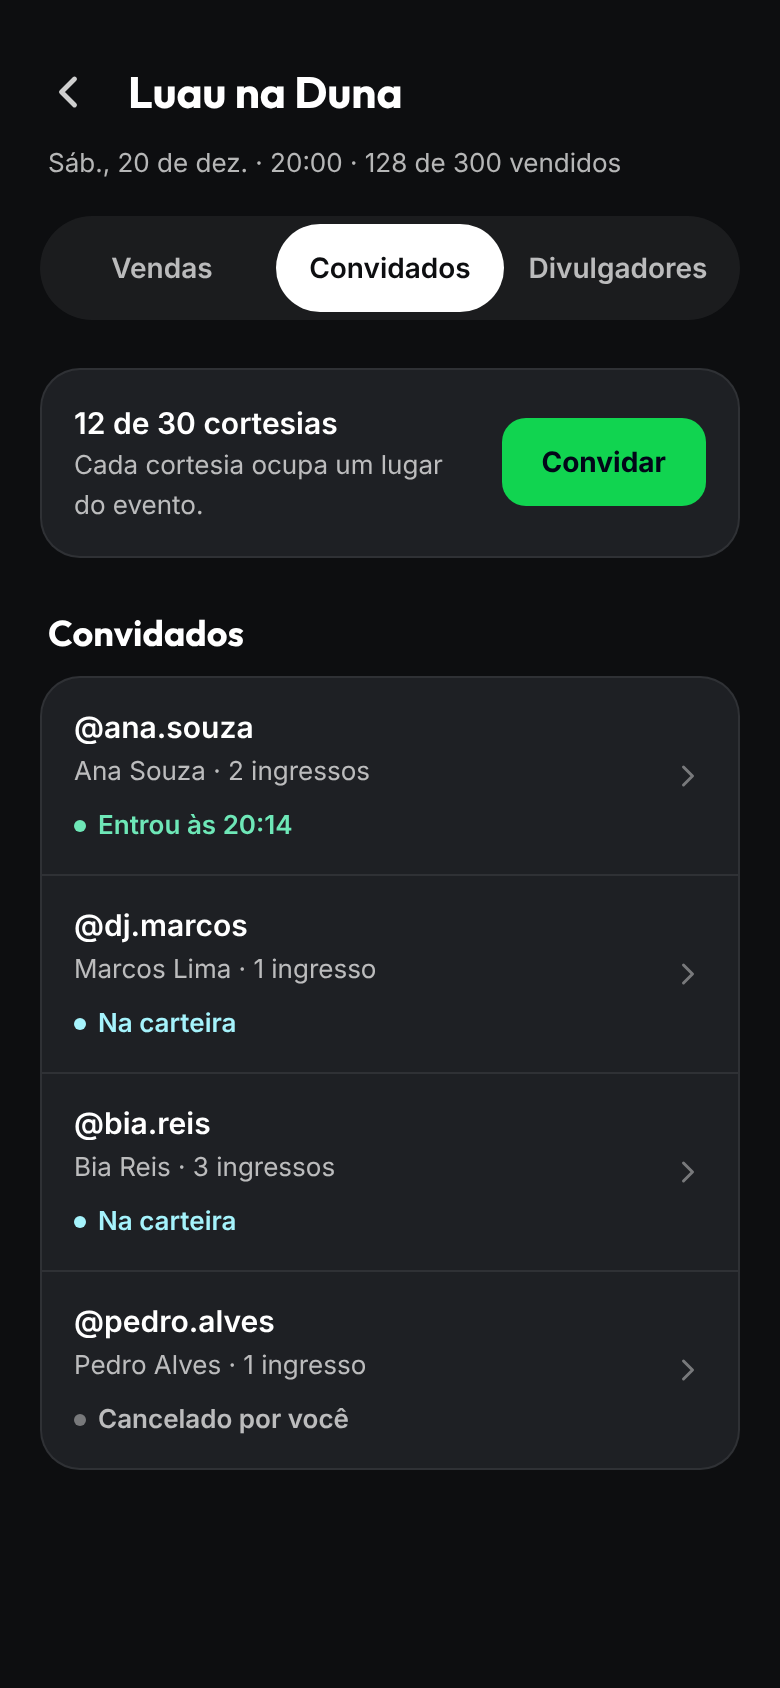
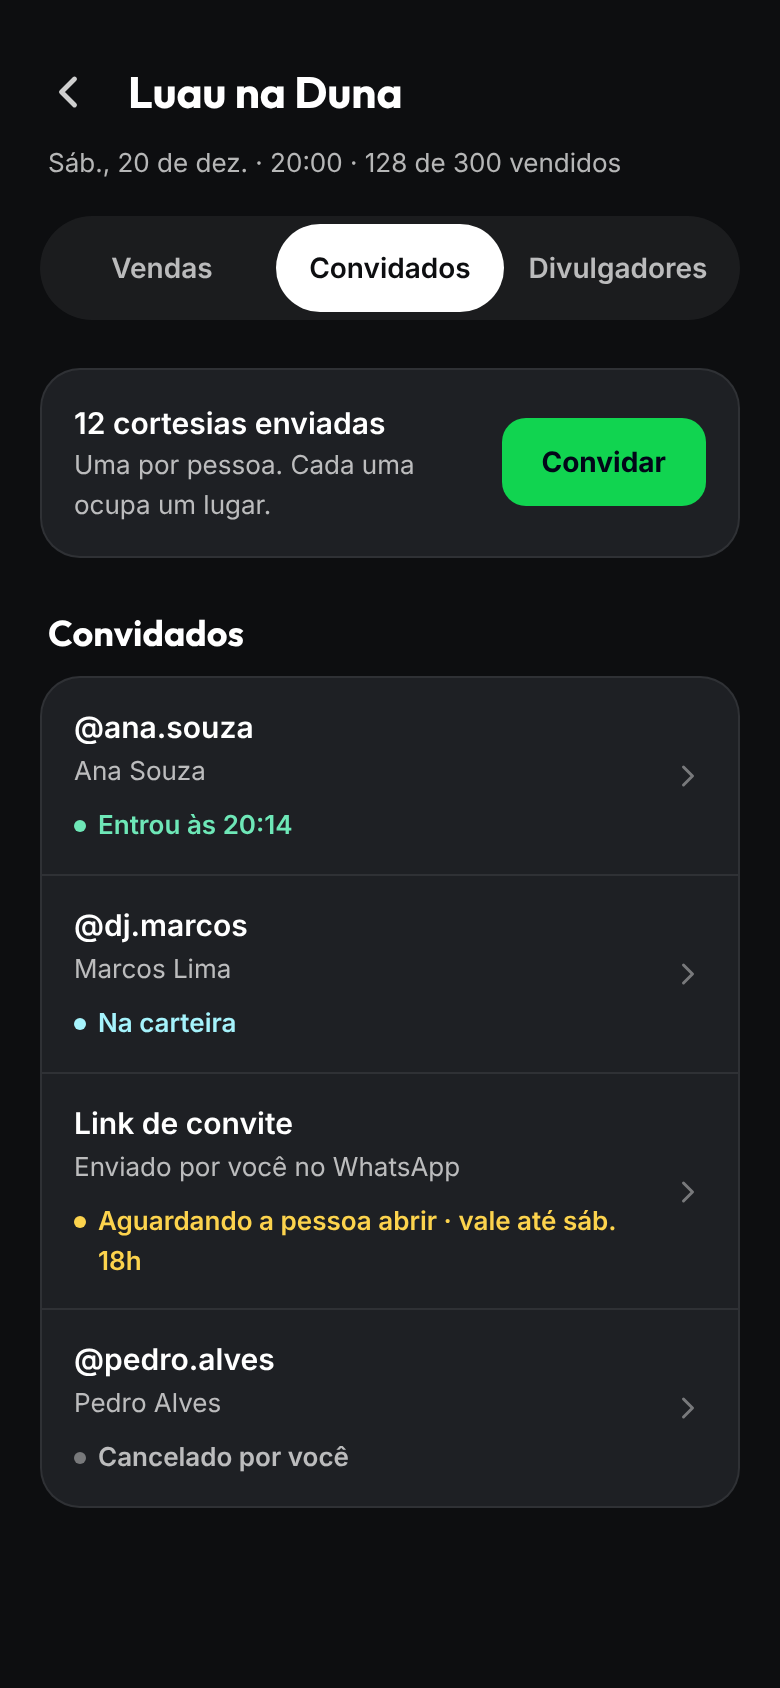
docs: proposta do painel do parceiro com as respostas de 2026-11-04 (atalhos no topo, cortesia 1 por pessoa, proteções, convite por link, página do evento x edição)
Claude-Session: https://claude.ai/code/session_01B4DS9rUAeoBCKcvRgBPDfP

diff --git a/docs/arquitetura/propostas/painel-parceiro-convidados-divulgadores.md b/docs/arquitetura/propostas/painel-parceiro-convidados-divulgadores.md
@@ -1,7 +1,7 @@
 # Proposta — Painel do parceiro, lista de convidados e divulgadores (2026-11-03)
 
-Status: **em aberto** (aguarda as decisões da seção 6; não implementar antes).
-Desenhos: `docs/arquitetura/propostas/painel-parceiro/` (p1 a p7, dois temas, verde da D26).
+Status: **em aberto** (decisões de 2026-11-04 na seção 6; aguarda aprovação dos desenhos e das seções 7 a 9).
+Desenhos: `docs/arquitetura/propostas/painel-parceiro/` (p1 a p9, dois temas, verde da D26).
 
 ## 1. Referências
 
@@ -55,22 +55,51 @@ Cada evento abre uma página própria com abas **Vendas · Convidados · Divulga
 - O divulgador não ganha comprando pelo próprio link.
 - O parceiro vê vendas, valor e quanto deve a cada divulgador; o divulgador vê, em **Menu › Divulgação**, os eventos, o link para compartilhar, as vendas e quanto tem a receber.
 
-## 6. Decisões (preciso da sua escolha)
+## 6. Respostas do responsável do produto (2026-11-04) e o que mudou
 
-1. **Painel:** barra inferior com Início, Agenda, Anúncios, Ganhos e Mais (proposta) ou manter abas no topo com uma tela Início?
-2. **Quem paga o divulgador:**
-   - **A (recomendado agora):** o parceiro paga direto ao divulgador (Pix); o Use Guide calcula e mostra o valor, como o Shotgun. Sem dinheiro novo passando pela plataforma, sem cadastro fiscal do divulgador.
-   - **B:** o Use Guide desconta a comissão do repasse do parceiro e paga o divulgador pelo Stripe (exige conta Stripe do divulgador com CPF, verificação e trato fiscal; mexe na D12 "CPF não vende" e no §15). Pode vir numa fase 2.
-3. **Limite de cortesias:** sugestão de até 10% da capacidade (o parceiro escolhe dentro do limite) ou livre?
-4. **Cortesia intransferível:** sim (proposta) ou pode transferir como ingresso pago?
-5. **Convite para quem não tem conta:** link de 7 dias (proposta) ou só por @?
-6. **Divulgador precisa aceitar** o convite (proposta) ou o link já sai ativo?
-7. **"Cachê fixo pelo evento"** (valor combinado, independe de vendas) entra também ou só comissão e valor por ingresso?
-8. **Oferta aberta** (qualquer comprador vira divulgador com uma comissão menor, como o Kickback público): agora, depois ou nunca?
+1. **Painel:** sem barra inferior. Atalhos em **quadrados levemente arredondados com ícone e nome dentro**, logo abaixo da saudação (referência: a linha de atalhos do app Telefone do iPhone): Agenda, Anúncios, Ganhos e Mais. A tela Início continua com "Precisa de você", "Hoje" e os números (p1, p2).
+2. **Divulgador:** opção **A** — o parceiro paga direto; o Use Guide calcula e mostra.
+3. **Cortesias:** **sem limite por evento**, **uma por pessoa**. Proteções contra usar a cortesia para tirar a venda da plataforma (seção 7).
+4. **Cortesia intransferível:** sim.
+5. **Quem não tem conta:** ver seção 8 (recomendação: link pessoal de convite).
+6. **Divulgador aceita o convite:** sim.
+7. **Cachê fixo pelo evento:** entra como terceira opção (p6).
+8. **Oferta aberta:** não agora; talvez no futuro.
 
-## 7. Etapas (depois das decisões)
+## 7. Proteções da cortesia (proposta)
 
-1. Painel: navegação nova e tela Início (sem regra de negócio nova).
-2. Convidados: cortesia por @, limite, cancelamento, aviso e portaria.
-3. Divulgadores: convite e aceite, link e atribuição, cálculo e relatórios dos dois lados.
-4. (Se a decisão 2 for B) pagamento automático aos divulgadores.
+A pesquisa não achou regra publicada pelas grandes plataformas sobre "cancelar a compra e dar cortesia"; elas tratam o assunto com controle de cortesias por pessoa, cortesia sem reembolso nem troca e termos que proíbem vender por fora. Proposta para o Use Guide:
+
+1. **Uma cortesia por pessoa por evento** (a regra que você pediu).
+2. **Sem cortesia para quem comprou este evento:** quem tem ingresso pago, ou teve compra deste evento cancelada ou reembolsada, não pode receber cortesia dele. Fecha o caminho "cancela aqui, paga por fora, ganha cortesia".
+3. **Cortesia não tem reembolso, troca nem transferência**, e não gera repasse nem taxa.
+4. **Termos do parceiro:** vender ou cobrar por fora um ingresso do Use Guide, ou pedir ao cliente que cancele para pagar por fora, é proibido; quebra leva a suspensão das vendas (texto novo, entra na próxima versão dos termos do parceiro).
+5. **Acompanhamento do admin:** relatório de cortesias por evento e alerta quando um evento tem muitas cortesias para pessoas que pediram reembolso.
+
+## 8. Convite para quem não tem conta (pesquisa)
+
+- Tito: convite com **link pessoal**, ou lote de links de uso único; quem abre "trava" o ingresso para si.
+- Ticketstripe, Posh, Quicket e outras: cortesia enviada **por e-mail ou telefone** com link para resgatar.
+- Shotgun: convite exige e-mail; com conta, o convite aparece também no app.
+
+Recomendação: **link pessoal de convite**, de uso único, válido até o início do evento. O parceiro manda pelo WhatsApp dele; quem abre cria a conta e o ingresso fica preso a ela (vale a regra de uma por pessoa no resgate). Não enviamos e-mail nem SMS (pediria fornecedor novo, §15).
+
+## 9. O que fica na edição do evento e o que sai (p8, p9)
+
+Hoje a edição junta conteúdo e operação (lotes, vendas, participantes, check-in, reembolsos, configurações, financeiro). Proposta:
+
+| Fica em **Editar evento** (o que o evento é) | Vai para a **página do evento** (operação) | Vai para outro lugar |
+|---|---|---|
+| Informações (nome, descrição, categoria, estabelecimento) | **Vendas:** números, pedidos e reembolsos (cada pedido abre uma folha com reembolso) | **Portaria:** pela sessão do dia na Agenda e no Início, e pela lista de sessões da página do evento |
+| Datas e sessões (criar e editar antes de vender) | **Convidados** | **Cancelar ou adiar sessão:** Agenda (é operação, com multa e reembolso) |
+| Local | **Divulgadores** | **Financeiro do evento:** resumo em Vendas; extrato completo em Ganhos, com filtro por evento |
+| Ingressos e lotes (preço, quantidade, meia) | Participantes: dentro de Vendas (busca por nome ou pedido) | **Conta de recebimento:** em Ganhos › Contas; a edição só mostra em qual CNPJ o evento recebe |
+| Regras de venda (cancelamento, taxa de serviço, transferência) | | |
+| Fotos e contato | | |
+
+## 10. Etapas (depois da aprovação dos desenhos)
+
+1. Painel: atalhos no topo e tela Início; página do evento separada da edição.
+2. Convidados: cortesia por @ e por link pessoal, uma por pessoa, proteções da seção 7, aviso e portaria.
+3. Divulgadores: convite e aceite, link e atribuição, três formas de ganho, relatórios dos dois lados.
+4. Termos do parceiro: cláusula de venda por fora (nova versão).
